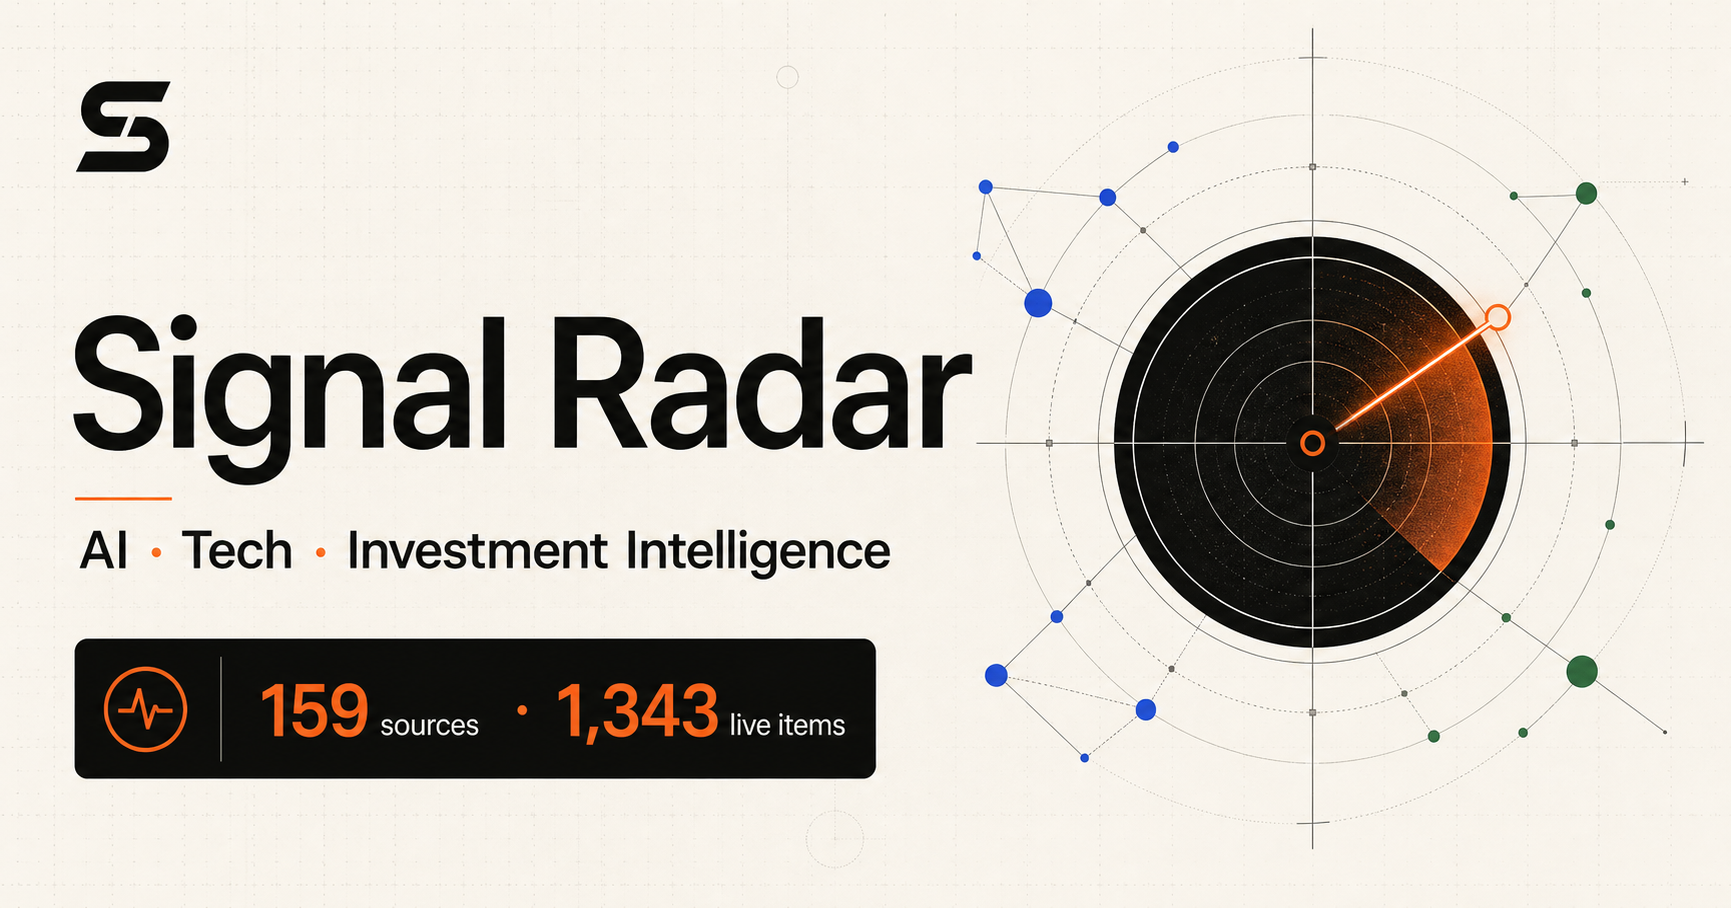
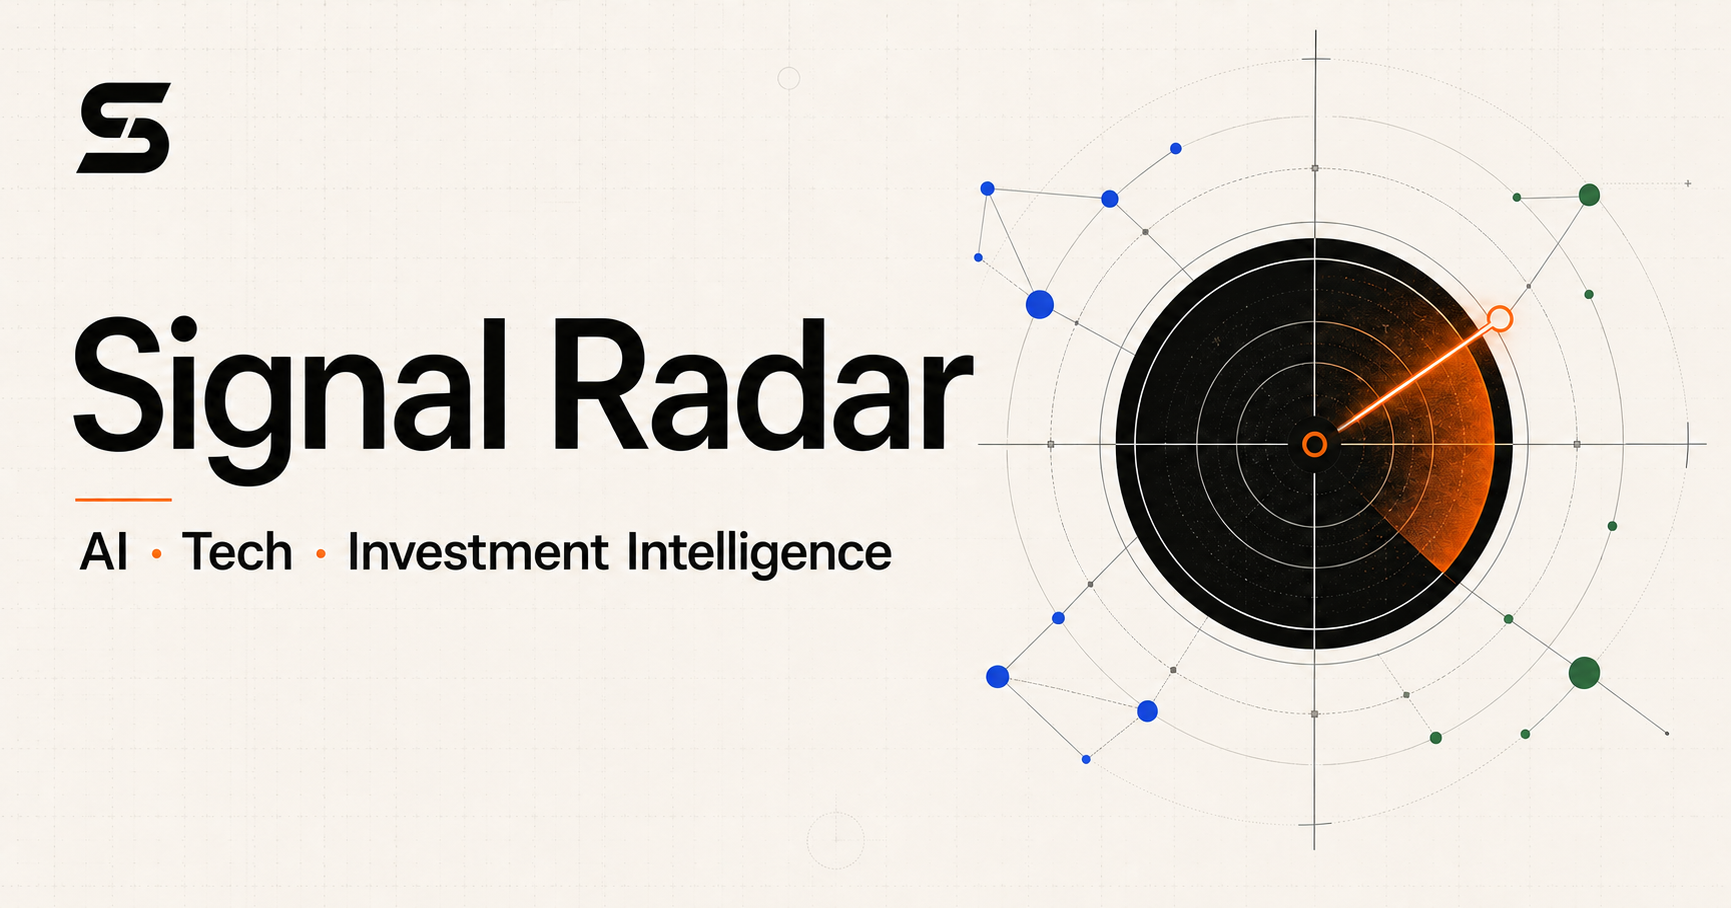
Rename Intelligence tab to Radar

diff --git a/_pages/about.md b/_pages/about.md
@@ -62,7 +62,7 @@ Obtuve mi doctorado en [Rutgers University](https://www.rutgers.edu/) (2023, dir
 <div data-i18n="en" markdown="1">
 
 ## News
-* 2026-07-28 Launched [Signal Radar](/intelligence/) — an AI, tech, and investment intelligence dashboard that cross-validates signals across 159 sources.
+* 2026-07-28 Launched [Signal Radar](/intelligence/) — an AI, tech, and investment intelligence dashboard that cross-validates signals across a broad set of original sources.
 * 2026-05-16 Our paper "SafeCRS: Personalized Safety Alignment for LLM-Based Conversational Recommender Systems" has been accepted by KDD 2026.
 * 2026-05-14 Our survey "[Agent Harness Engineering: A Survey](https://picrew.github.io/LLM-Harness/)" is available on OpenReview.
 * 2026-04-19 Our paper "Visual Exclusivity Attacks: Automatic Multimodal Red Teaming via Agentic Planning" received the **Best Short Paper Award** at AIWILD @ ICLR 2026.
@@ -109,7 +109,7 @@ Obtuve mi doctorado en [Rutgers University](https://www.rutgers.edu/) (2023, dir
 <div data-i18n="zh" markdown="1">
 
 ## 新闻动态
-* 2026-07-28 上线 [Signal Radar](/intelligence/)——一个从 159 个信源交叉验证 AI、科技与投资信号的情报看板。
+* 2026-07-28 上线 [Signal Radar](/intelligence/)——一个跨信源交叉验证 AI、科技与投资信号的情报看板。
 * 2026-05-16 论文 "SafeCRS: Personalized Safety Alignment for LLM-Based Conversational Recommender Systems" 被 KDD 2026 录用。
 * 2026-05-14 我们的综述 "[Agent Harness Engineering: A Survey](https://picrew.github.io/LLM-Harness/)" 已在 OpenReview 上线。
 * 2026-04-19 论文 "Visual Exclusivity Attacks: Automatic Multimodal Red Teaming via Agentic Planning" 获 AIWILD @ ICLR 2026 **Best Short Paper Award**。
@@ -156,7 +156,7 @@ Obtuve mi doctorado en [Rutgers University](https://www.rutgers.edu/) (2023, dir
 <div data-i18n="ja" markdown="1">
 
 ## ニュース
-* 2026-07-28 [Signal Radar](/intelligence/) を公開しました。159の情報源から AI・Tech・Investment シグナルをクロス検証するインテリジェンスダッシュボードです。
+* 2026-07-28 [Signal Radar](/intelligence/) を公開しました。複数の情報源から AI・Tech・Investment シグナルをクロス検証するインテリジェンスダッシュボードです。
 * 2026-05-16 論文 "SafeCRS: Personalized Safety Alignment for LLM-Based Conversational Recommender Systems" が KDD 2026 に採択。
 * 2026-05-14 サーベイ "[Agent Harness Engineering: A Survey](https://picrew.github.io/LLM-Harness/)" が OpenReview で公開。
 * 2026-04-19 論文 "Visual Exclusivity Attacks: Automatic Multimodal Red Teaming via Agentic Planning" が AIWILD @ ICLR 2026 で **Best Short Paper Award** を受賞。
@@ -203,7 +203,7 @@ Obtuve mi doctorado en [Rutgers University](https://www.rutgers.edu/) (2023, dir
 <div data-i18n="ko" markdown="1">
 
 ## 소식
-* 2026-07-28 [Signal Radar](/intelligence/)를 공개했습니다. 159개 소스에서 AI, Tech, Investment 신호를 교차 검증하는 인텔리전스 대시보드입니다.
+* 2026-07-28 [Signal Radar](/intelligence/)를 공개했습니다. 다양한 원본 소스에서 AI, Tech, Investment 신호를 교차 검증하는 인텔리전스 대시보드입니다.
 * 2026-05-16 논문 "SafeCRS: Personalized Safety Alignment for LLM-Based Conversational Recommender Systems"이 KDD 2026에 채택됨.
 * 2026-05-14 서베이 "[Agent Harness Engineering: A Survey](https://picrew.github.io/LLM-Harness/)"가 OpenReview에 공개됨.
 * 2026-04-19 논문 "Visual Exclusivity Attacks: Automatic Multimodal Red Teaming via Agentic Planning"이 AIWILD @ ICLR 2026에서 **Best Short Paper Award** 수상.
@@ -250,7 +250,7 @@ Obtuve mi doctorado en [Rutgers University](https://www.rutgers.edu/) (2023, dir
 <div data-i18n="es" markdown="1">
 
 ## Noticias
-* 2026-07-28 Lanzamos [Signal Radar](/intelligence/), un panel de inteligencia que valida señales de AI, Tech e Investment a través de 159 fuentes.
+* 2026-07-28 Lanzamos [Signal Radar](/intelligence/), un panel de inteligencia que valida señales de AI, Tech e Investment a través de diversas fuentes originales.
 * 2026-05-16 Nuestro articulo "SafeCRS: Personalized Safety Alignment for LLM-Based Conversational Recommender Systems" ha sido aceptado en KDD 2026.
 * 2026-05-14 Nuestro survey "[Agent Harness Engineering: A Survey](https://picrew.github.io/LLM-Harness/)" esta disponible en OpenReview.
 * 2026-04-19 Nuestro articulo "Visual Exclusivity Attacks: Automatic Multimodal Red Teaming via Agentic Planning" recibió el **Best Short Paper Award** en AIWILD @ ICLR 2026.
